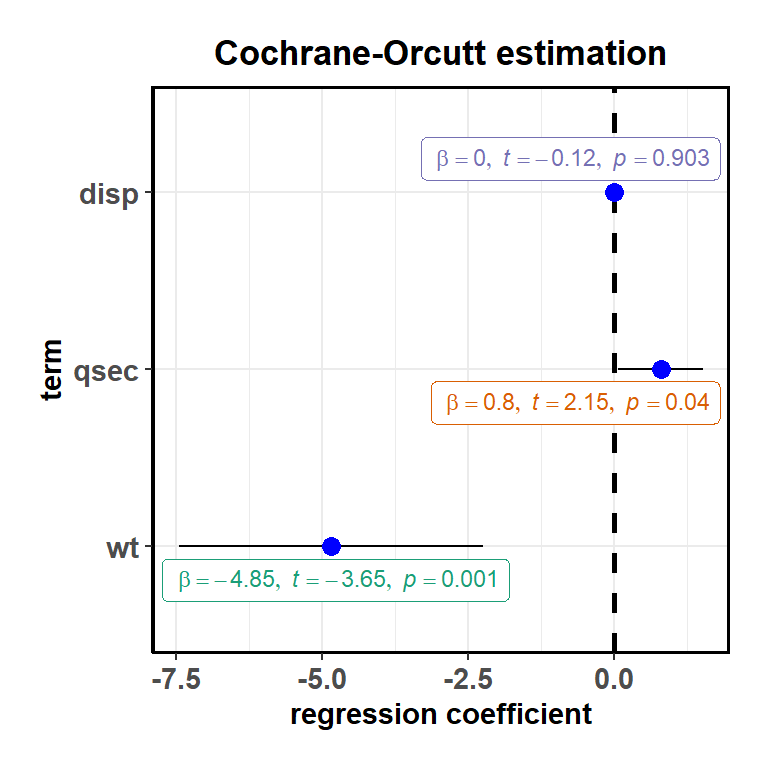
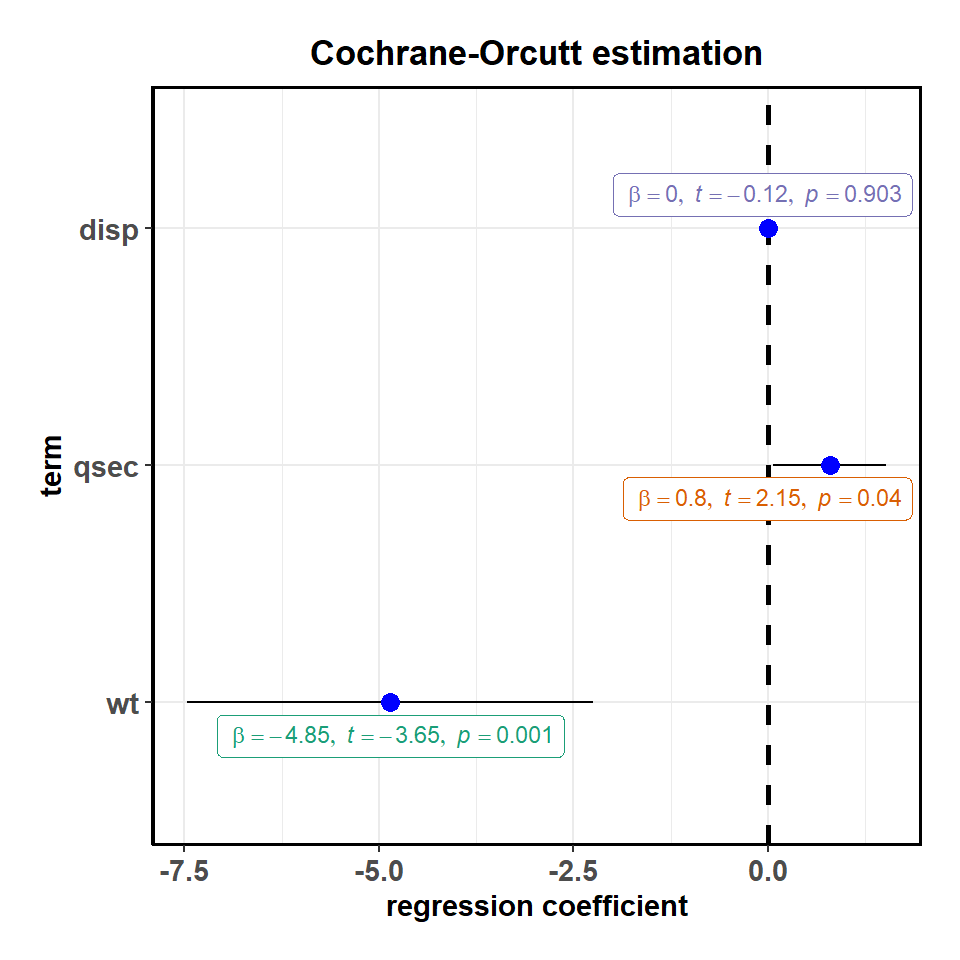
update ggcoefstats vignette

Changed region(s): [[0.0312, 0.0312, 0.9688, 0.9688], [0.7812, 0.625, 0.8125, 0.75], [0.5625, 0.5, 0.5938, 0.5312]]

diff --git a/docs/articles/web_only/ggcoefstats.html b/docs/articles/web_only/ggcoefstats.html
@@ -142,7 +142,7 @@
       <h1>ggcoefstats</h1>
                         <h4 class="author">Indrajeet Patil</h4>
             
-            <h4 class="date">2019-11-30</h4>
+            <h4 class="date">2019-12-03</h4>
       
       <small class="dont-index">Source: <a href="https://github.com/IndrajeetPatil/ggstatsplot/blob/master/vignettes/web_only/ggcoefstats.Rmd"><code>vignettes/web_only/ggcoefstats.Rmd</code></a></small>
       <div class="hidden name"><code>ggcoefstats.Rmd</code></div>
@@ -409,9 +409,7 @@
 <a class="sourceLine" id="cb7-16" title="16">  <span class="dt">title =</span> <span class="st">"robust estimation of linear mixed-effects model"</span>,</a>
 <a class="sourceLine" id="cb7-17" title="17">  <span class="dt">conf.level =</span> <span class="fl">0.90</span></a>
 <a class="sourceLine" id="cb7-18" title="18">)</a>
-<a class="sourceLine" id="cb7-19" title="19"><span class="co">#&gt; Note: No model diagnostics information available, so skipping caption.</span></a>
-<a class="sourceLine" id="cb7-20" title="20"><span class="co">#&gt; Note: No p-values and/or statistic available for the model object;</span></a>
-<a class="sourceLine" id="cb7-21" title="21"><span class="co">#&gt; skipping labels with stats.</span></a></code></pre></div>
+<a class="sourceLine" id="cb7-19" title="19"><span class="co">#&gt; Note: No model diagnostics information available, so skipping caption.</span></a></code></pre></div>
 <p><img src="ggcoefstats_files/figure-html/rlmer-1.png" width="700"></p>
 </div>
 <div id="non-linear-mixed-effects-model-nlmernlmermod" class="section level2">
@@ -2389,30 +2387,21 @@
 <a class="sourceLine" id="cb71-25" title="25">    <span class="dt">formula =</span> networks <span class="op">~</span><span class="st"> </span>edges <span class="op">+</span><span class="st"> </span><span class="kw">istar</span>(<span class="dv">2</span>) <span class="op">+</span><span class="st"> </span><span class="kw">edgecov</span>(covariates),</a>
 <a class="sourceLine" id="cb71-26" title="26">    <span class="dt">parallel =</span> <span class="st">"multicore"</span>,</a>
 <a class="sourceLine" id="cb71-27" title="27">    <span class="dt">ncpus =</span> <span class="dv">4</span>,</a>
-<a class="sourceLine" id="cb71-28" title="28">    <span class="dt">R =</span> <span class="dv">100</span></a>
-<a class="sourceLine" id="cb71-29" title="29">  )</a>
-<a class="sourceLine" id="cb71-30" title="30"><span class="co">#&gt;                  t=1 t=2 t=3 t=4 t=5 t=6 t=7 t=8 t=9 t=10</span></a>
-<a class="sourceLine" id="cb71-31" title="31"><span class="co">#&gt; networks (row)    10  10  10  10  10  10  10  10  10   10</span></a>
-<a class="sourceLine" id="cb71-32" title="32"><span class="co">#&gt; networks (col)    10  10  10  10  10  10  10  10  10   10</span></a>
-<a class="sourceLine" id="cb71-33" title="33"><span class="co">#&gt; covariates (row)  10  10  10  10  10  10  10  10  10   10</span></a>
-<a class="sourceLine" id="cb71-34" title="34"><span class="co">#&gt; covariates (col)  10  10  10  10  10  10  10  10  10   10</span></a>
-<a class="sourceLine" id="cb71-35" title="35"><span class="co">#&gt;                  t=1 t=2 t=3 t=4 t=5 t=6 t=7 t=8 t=9 t=10</span></a>
-<a class="sourceLine" id="cb71-36" title="36"><span class="co">#&gt; networks (row)    10  10  10  10  10  10  10  10  10   10</span></a>
-<a class="sourceLine" id="cb71-37" title="37"><span class="co">#&gt; networks (col)    10  10  10  10  10  10  10  10  10   10</span></a>
-<a class="sourceLine" id="cb71-38" title="38"><span class="co">#&gt; covariates (row)  10  10  10  10  10  10  10  10  10   10</span></a>
-<a class="sourceLine" id="cb71-39" title="39"><span class="co">#&gt; covariates (col)  10  10  10  10  10  10  10  10  10   10</span></a>
-<a class="sourceLine" id="cb71-40" title="40"></a>
-<a class="sourceLine" id="cb71-41" title="41"><span class="co"># plot</span></a>
-<a class="sourceLine" id="cb71-42" title="42">ggstatsplot<span class="op">::</span><span class="kw"><a href="https://indrajeetpatil.github.io/ggstatsplot//reference/ggcoefstats.html">ggcoefstats</a></span>(</a>
-<a class="sourceLine" id="cb71-43" title="43">  <span class="dt">x =</span> fit,</a>
-<a class="sourceLine" id="cb71-44" title="44">  <span class="dt">title =</span> <span class="st">"Terms used in Exponential Family Random Graph Models"</span>,</a>
-<a class="sourceLine" id="cb71-45" title="45">  <span class="dt">subtitle =</span> <span class="st">"by bootstrapped pseudolikelihood or MCMC MLE"</span></a>
-<a class="sourceLine" id="cb71-46" title="46">)</a>
-<a class="sourceLine" id="cb71-47" title="47"><span class="co">#&gt; Note: No model diagnostics information available, so skipping caption.</span></a>
-<a class="sourceLine" id="cb71-48" title="48"><span class="co">#&gt; </span></a>
-<a class="sourceLine" id="cb71-49" title="49"><span class="co">#&gt; Could not extract p-values from model object.</span></a>
-<a class="sourceLine" id="cb71-50" title="50"><span class="co">#&gt; Note: No p-values and/or statistic available for the model object;</span></a>
-<a class="sourceLine" id="cb71-51" title="51"><span class="co">#&gt; skipping labels with stats.</span></a></code></pre></div>
+<a class="sourceLine" id="cb71-28" title="28">    <span class="dt">R =</span> <span class="dv">100</span>,</a>
+<a class="sourceLine" id="cb71-29" title="29">    <span class="dt">verbose =</span> <span class="ot">FALSE</span></a>
+<a class="sourceLine" id="cb71-30" title="30">  )</a>
+<a class="sourceLine" id="cb71-31" title="31"></a>
+<a class="sourceLine" id="cb71-32" title="32"><span class="co"># plot</span></a>
+<a class="sourceLine" id="cb71-33" title="33">ggstatsplot<span class="op">::</span><span class="kw"><a href="https://indrajeetpatil.github.io/ggstatsplot//reference/ggcoefstats.html">ggcoefstats</a></span>(</a>
+<a class="sourceLine" id="cb71-34" title="34">  <span class="dt">x =</span> fit,</a>
+<a class="sourceLine" id="cb71-35" title="35">  <span class="dt">title =</span> <span class="st">"Terms used in Exponential Family Random Graph Models"</span>,</a>
+<a class="sourceLine" id="cb71-36" title="36">  <span class="dt">subtitle =</span> <span class="st">"by bootstrapped pseudolikelihood or MCMC MLE"</span></a>
+<a class="sourceLine" id="cb71-37" title="37">)</a>
+<a class="sourceLine" id="cb71-38" title="38"><span class="co">#&gt; Note: No model diagnostics information available, so skipping caption.</span></a>
+<a class="sourceLine" id="cb71-39" title="39"><span class="co">#&gt; </span></a>
+<a class="sourceLine" id="cb71-40" title="40"><span class="co">#&gt; Could not extract p-values from model object.</span></a>
+<a class="sourceLine" id="cb71-41" title="41"><span class="co">#&gt; Note: No p-values and/or statistic available for the model object;</span></a>
+<a class="sourceLine" id="cb71-42" title="42"><span class="co">#&gt; skipping labels with stats.</span></a></code></pre></div>
 <p><img src="ggcoefstats_files/figure-html/btergm-1.png" width="576"></p>
 </div>
 <div id="generalized-autoregressive-conditional-heteroscedastic-garch" class="section level2">
@@ -2451,7 +2440,7 @@
 <a class="sourceLine" id="cb73-14" title="14"><span class="co">#&gt; Could not extract p-values from model object.</span></a>
 <a class="sourceLine" id="cb73-15" title="15"><span class="co">#&gt; Note: No p-values and/or statistic available for the model object;</span></a>
 <a class="sourceLine" id="cb73-16" title="16"><span class="co">#&gt; skipping labels with stats.</span></a></code></pre></div>
-<p><img src="ggcoefstats_files/figure-html/fitdistr-1.png" width="576"></p>
+<p><img src="ggcoefstats_files/figure-html/fitdistr-1.png" width="384"></p>
 </div>
 <div id="maximum-likelihood-estimation-mle2" class="section level2">
 <h2 class="hasAnchor">
@@ -2499,31 +2488,22 @@
 <a class="sourceLine" id="cb75-12" title="12">oranges_rg1 &lt;-<span class="st"> </span>emmeans<span class="op">::</span><span class="kw"><a href="https://rdrr.io/pkg/emmeans/man/ref_grid.html">ref_grid</a></span>(oranges_lm1)</a>
 <a class="sourceLine" id="cb75-13" title="13">marginal &lt;-<span class="st"> </span>emmeans<span class="op">::</span><span class="kw"><a href="https://rdrr.io/pkg/emmeans/man/emmeans.html">emmeans</a></span>(oranges_rg1, <span class="st">"day"</span>)</a>
 <a class="sourceLine" id="cb75-14" title="14"></a>
-<a class="sourceLine" id="cb75-15" title="15"><span class="co"># looking at the tidy output</span></a>
-<a class="sourceLine" id="cb75-16" title="16">broom<span class="op">::</span><span class="kw"><a href="http://broom.tidyverse.org/reference/reexports.html">tidy</a></span>(marginal)</a>
-<a class="sourceLine" id="cb75-17" title="17"><span class="co">#&gt; # A tibble: 6 x 6</span></a>
-<a class="sourceLine" id="cb75-18" title="18"><span class="co">#&gt;   day   estimate std.error    df conf.low conf.high</span></a>
-<a class="sourceLine" id="cb75-19" title="19"><span class="co">#&gt;   &lt;fct&gt;    &lt;dbl&gt;     &lt;dbl&gt; &lt;dbl&gt;    &lt;dbl&gt;     &lt;dbl&gt;</span></a>
-<a class="sourceLine" id="cb75-20" title="20"><span class="co">#&gt; 1 1         5.56      1.77    23     1.91      9.22</span></a>
-<a class="sourceLine" id="cb75-21" title="21"><span class="co">#&gt; 2 2         6.49      1.73    23     2.92     10.1 </span></a>
-<a class="sourceLine" id="cb75-22" title="22"><span class="co">#&gt; 3 3        13.7       1.75    23    10.0      17.3 </span></a>
-<a class="sourceLine" id="cb75-23" title="23"><span class="co">#&gt; 4 4         8.74      1.73    23     5.16     12.3 </span></a>
-<a class="sourceLine" id="cb75-24" title="24"><span class="co">#&gt; 5 5        15.4       1.79    23    11.7      19.1 </span></a>
-<a class="sourceLine" id="cb75-25" title="25"><span class="co">#&gt; 6 6        11.4       1.77    23     7.74     15.0</span></a>
-<a class="sourceLine" id="cb75-26" title="26"></a>
-<a class="sourceLine" id="cb75-27" title="27"><span class="co"># plotting it using `ggcoefstats`</span></a>
-<a class="sourceLine" id="cb75-28" title="28"><span class="co"># note that since there was column called `term`, the function created one</span></a>
-<a class="sourceLine" id="cb75-29" title="29">ggstatsplot<span class="op">::</span><span class="kw"><a href="https://indrajeetpatil.github.io/ggstatsplot//reference/ggcoefstats.html">ggcoefstats</a></span>(</a>
-<a class="sourceLine" id="cb75-30" title="30">  <span class="dt">x =</span> marginal,</a>
-<a class="sourceLine" id="cb75-31" title="31">  <span class="dt">point.color =</span> <span class="st">"darkgreen"</span>,</a>
-<a class="sourceLine" id="cb75-32" title="32">  <span class="dt">point.shape =</span> <span class="dv">9</span>,</a>
-<a class="sourceLine" id="cb75-33" title="33">  <span class="dt">title =</span> <span class="st">"summary grid from `emmeans` package"</span></a>
-<a class="sourceLine" id="cb75-34" title="34">)</a>
-<a class="sourceLine" id="cb75-35" title="35"><span class="co">#&gt; Note: No model diagnostics information available, so skipping caption.</span></a>
-<a class="sourceLine" id="cb75-36" title="36"><span class="co">#&gt; </span></a>
-<a class="sourceLine" id="cb75-37" title="37"><span class="co">#&gt; Could not extract p-values from model object.</span></a>
-<a class="sourceLine" id="cb75-38" title="38"><span class="co">#&gt; Note: No p-values and/or statistic available for the model object;</span></a>
-<a class="sourceLine" id="cb75-39" title="39"><span class="co">#&gt; skipping labels with stats.</span></a></code></pre></div>
+<a class="sourceLine" id="cb75-15" title="15"><span class="co"># looking at the tidy output (you can do this yourself)</span></a>
+<a class="sourceLine" id="cb75-16" title="16"><span class="co"># broom::tidy(marginal)</span></a>
+<a class="sourceLine" id="cb75-17" title="17"></a>
+<a class="sourceLine" id="cb75-18" title="18"><span class="co"># plotting it using `ggcoefstats`</span></a>
+<a class="sourceLine" id="cb75-19" title="19"><span class="co"># note that since there was column called `term`, the function created one</span></a>
+<a class="sourceLine" id="cb75-20" title="20">ggstatsplot<span class="op">::</span><span class="kw"><a href="https://indrajeetpatil.github.io/ggstatsplot//reference/ggcoefstats.html">ggcoefstats</a></span>(</a>
+<a class="sourceLine" id="cb75-21" title="21">  <span class="dt">x =</span> marginal,</a>
+<a class="sourceLine" id="cb75-22" title="22">  <span class="dt">point.color =</span> <span class="st">"darkgreen"</span>,</a>
+<a class="sourceLine" id="cb75-23" title="23">  <span class="dt">point.shape =</span> <span class="dv">9</span>,</a>
+<a class="sourceLine" id="cb75-24" title="24">  <span class="dt">title =</span> <span class="st">"summary grid from `emmeans` package"</span></a>
+<a class="sourceLine" id="cb75-25" title="25">)</a>
+<a class="sourceLine" id="cb75-26" title="26"><span class="co">#&gt; Note: No model diagnostics information available, so skipping caption.</span></a>
+<a class="sourceLine" id="cb75-27" title="27"><span class="co">#&gt; </span></a>
+<a class="sourceLine" id="cb75-28" title="28"><span class="co">#&gt; Could not extract p-values from model object.</span></a>
+<a class="sourceLine" id="cb75-29" title="29"><span class="co">#&gt; Note: No p-values and/or statistic available for the model object;</span></a>
+<a class="sourceLine" id="cb75-30" title="30"><span class="co">#&gt; skipping labels with stats.</span></a></code></pre></div>
 <p><img src="ggcoefstats_files/figure-html/emmGrid-1.png" width="480"></p>
 </div>
 <div id="cochrane-orcutt-estimation-orcutt" class="section level2">
@@ -2541,7 +2521,7 @@
 <a class="sourceLine" id="cb76-10" title="10">  <span class="dt">title =</span> <span class="st">"Cochrane-Orcutt estimation"</span></a>
 <a class="sourceLine" id="cb76-11" title="11">)</a>
 <a class="sourceLine" id="cb76-12" title="12"><span class="co">#&gt; Note: No model diagnostics information available, so skipping caption.</span></a></code></pre></div>
-<p><img src="ggcoefstats_files/figure-html/orcutt-1.png" width="384"></p>
+<p><img src="ggcoefstats_files/figure-html/orcutt-1.png" width="480"></p>
 </div>
 <div id="confusion-matrix-confusionmatrix" class="section level2">
 <h2 class="hasAnchor">
@@ -2723,9 +2703,9 @@
 <a class="sourceLine" id="cb82-35" title="35"><span class="co">#&gt; Chain 1: Iteration: 1800 / 2000 [ 90%]  (Sampling)</span></a>
 <a class="sourceLine" id="cb82-36" title="36"><span class="co">#&gt; Chain 1: Iteration: 2000 / 2000 [100%]  (Sampling)</span></a>
 <a class="sourceLine" id="cb82-37" title="37"><span class="co">#&gt; Chain 1: </span></a>
-<a class="sourceLine" id="cb82-38" title="38"><span class="co">#&gt; Chain 1:  Elapsed Time: 9.155 seconds (Warm-up)</span></a>
-<a class="sourceLine" id="cb82-39" title="39"><span class="co">#&gt; Chain 1:                4.988 seconds (Sampling)</span></a>
-<a class="sourceLine" id="cb82-40" title="40"><span class="co">#&gt; Chain 1:                14.143 seconds (Total)</span></a>
+<a class="sourceLine" id="cb82-38" title="38"><span class="co">#&gt; Chain 1:  Elapsed Time: 11.335 seconds (Warm-up)</span></a>
+<a class="sourceLine" id="cb82-39" title="39"><span class="co">#&gt; Chain 1:                6.402 seconds (Sampling)</span></a>
+<a class="sourceLine" id="cb82-40" title="40"><span class="co">#&gt; Chain 1:                17.737 seconds (Total)</span></a>
 <a class="sourceLine" id="cb82-41" title="41"><span class="co">#&gt; Chain 1: </span></a>
 <a class="sourceLine" id="cb82-42" title="42"><span class="co">#&gt; </span></a>
 <a class="sourceLine" id="cb82-43" title="43"><span class="co">#&gt; SAMPLING FOR MODEL '7fc0444ee315785f19884bc3c9b2a5ab' NOW (CHAIN 2).</span></a>
@@ -2748,9 +2728,9 @@
 <a class="sourceLine" id="cb82-60" title="60"><span class="co">#&gt; Chain 2: Iteration: 1800 / 2000 [ 90%]  (Sampling)</span></a>
 <a class="sourceLine" id="cb82-61" title="61"><span class="co">#&gt; Chain 2: Iteration: 2000 / 2000 [100%]  (Sampling)</span></a>
 <a class="sourceLine" id="cb82-62" title="62"><span class="co">#&gt; Chain 2: </span></a>
-<a class="sourceLine" id="cb82-63" title="63"><span class="co">#&gt; Chain 2:  Elapsed Time: 19.21 seconds (Warm-up)</span></a>
-<a class="sourceLine" id="cb82-64" title="64"><span class="co">#&gt; Chain 2:                45.991 seconds (Sampling)</span></a>
-<a class="sourceLine" id="cb82-65" title="65"><span class="co">#&gt; Chain 2:                65.201 seconds (Total)</span></a>
+<a class="sourceLine" id="cb82-63" title="63"><span class="co">#&gt; Chain 2:  Elapsed Time: 23.717 seconds (Warm-up)</span></a>
+<a class="sourceLine" id="cb82-64" title="64"><span class="co">#&gt; Chain 2:                56.518 seconds (Sampling)</span></a>
+<a class="sourceLine" id="cb82-65" title="65"><span class="co">#&gt; Chain 2:                80.235 seconds (Total)</span></a>
 <a class="sourceLine" id="cb82-66" title="66"><span class="co">#&gt; Chain 2: </span></a>
 <a class="sourceLine" id="cb82-67" title="67"><span class="co">#&gt; </span></a>
 <a class="sourceLine" id="cb82-68" title="68"><span class="co">#&gt; SAMPLING FOR MODEL '7fc0444ee315785f19884bc3c9b2a5ab' NOW (CHAIN 3).</span></a>
@@ -2773,9 +2753,9 @@
 <a class="sourceLine" id="cb82-85" title="85"><span class="co">#&gt; Chain 3: Iteration: 1800 / 2000 [ 90%]  (Sampling)</span></a>
 <a class="sourceLine" id="cb82-86" title="86"><span class="co">#&gt; Chain 3: Iteration: 2000 / 2000 [100%]  (Sampling)</span></a>
 <a class="sourceLine" id="cb82-87" title="87"><span class="co">#&gt; Chain 3: </span></a>
-<a class="sourceLine" id="cb82-88" title="88"><span class="co">#&gt; Chain 3:  Elapsed Time: 6.996 seconds (Warm-up)</span></a>
-<a class="sourceLine" id="cb82-89" title="89"><span class="co">#&gt; Chain 3:                4.869 seconds (Sampling)</span></a>
-<a class="sourceLine" id="cb82-90" title="90"><span class="co">#&gt; Chain 3:                11.865 seconds (Total)</span></a>
+<a class="sourceLine" id="cb82-88" title="88"><span class="co">#&gt; Chain 3:  Elapsed Time: 7.037 seconds (Warm-up)</span></a>
+<a class="sourceLine" id="cb82-89" title="89"><span class="co">#&gt; Chain 3:                4.515 seconds (Sampling)</span></a>
+<a class="sourceLine" id="cb82-90" title="90"><span class="co">#&gt; Chain 3:                11.552 seconds (Total)</span></a>
 <a class="sourceLine" id="cb82-91" title="91"><span class="co">#&gt; Chain 3: </span></a>
 <a class="sourceLine" id="cb82-92" title="92"><span class="co">#&gt; </span></a>
 <a class="sourceLine" id="cb82-93" title="93"><span class="co">#&gt; SAMPLING FOR MODEL '7fc0444ee315785f19884bc3c9b2a5ab' NOW (CHAIN 4).</span></a>
@@ -2798,9 +2778,9 @@
 <a class="sourceLine" id="cb82-110" title="110"><span class="co">#&gt; Chain 4: Iteration: 1800 / 2000 [ 90%]  (Sampling)</span></a>
 <a class="sourceLine" id="cb82-111" title="111"><span class="co">#&gt; Chain 4: Iteration: 2000 / 2000 [100%]  (Sampling)</span></a>
 <a class="sourceLine" id="cb82-112" title="112"><span class="co">#&gt; Chain 4: </span></a>
-<a class="sourceLine" id="cb82-113" title="113"><span class="co">#&gt; Chain 4:  Elapsed Time: 7.188 seconds (Warm-up)</span></a>
-<a class="sourceLine" id="cb82-114" title="114"><span class="co">#&gt; Chain 4:                6.535 seconds (Sampling)</span></a>
-<a class="sourceLine" id="cb82-115" title="115"><span class="co">#&gt; Chain 4:                13.723 seconds (Total)</span></a>
+<a class="sourceLine" id="cb82-113" title="113"><span class="co">#&gt; Chain 4:  Elapsed Time: 5.974 seconds (Warm-up)</span></a>
+<a class="sourceLine" id="cb82-114" title="114"><span class="co">#&gt; Chain 4:                5.163 seconds (Sampling)</span></a>
+<a class="sourceLine" id="cb82-115" title="115"><span class="co">#&gt; Chain 4:                11.137 seconds (Total)</span></a>
 <a class="sourceLine" id="cb82-116" title="116"><span class="co">#&gt; Chain 4:</span></a>
 <a class="sourceLine" id="cb82-117" title="117"></a>
 <a class="sourceLine" id="cb82-118" title="118"><span class="co"># plot</span></a>
@@ -2834,8 +2814,8 @@
 <a class="sourceLine" id="cb83-16" title="16"><span class="co">#&gt; </span></a>
 <a class="sourceLine" id="cb83-17" title="17"><span class="co">#&gt; SAMPLING FOR MODEL 'd4eb97f08850361da56832c67c1bb81f' NOW (CHAIN 1).</span></a>
 <a class="sourceLine" id="cb83-18" title="18"><span class="co">#&gt; Chain 1: </span></a>
-<a class="sourceLine" id="cb83-19" title="19"><span class="co">#&gt; Chain 1: Gradient evaluation took 0.001 seconds</span></a>
-<a class="sourceLine" id="cb83-20" title="20"><span class="co">#&gt; Chain 1: 1000 transitions using 10 leapfrog steps per transition would take 10 seconds.</span></a>
+<a class="sourceLine" id="cb83-19" title="19"><span class="co">#&gt; Chain 1: Gradient evaluation took 0 seconds</span></a>
+<a class="sourceLine" id="cb83-20" title="20"><span class="co">#&gt; Chain 1: 1000 transitions using 10 leapfrog steps per transition would take 0 seconds.</span></a>
 <a class="sourceLine" id="cb83-21" title="21"><span class="co">#&gt; Chain 1: Adjust your expectations accordingly!</span></a>
 <a class="sourceLine" id="cb83-22" title="22"><span class="co">#&gt; Chain 1: </span></a>
 <a class="sourceLine" id="cb83-23" title="23"><span class="co">#&gt; Chain 1: </span></a>
@@ -2852,9 +2832,9 @@
 <a class="sourceLine" id="cb83-34" title="34"><span class="co">#&gt; Chain 1: Iteration: 1800 / 2000 [ 90%]  (Sampling)</span></a>
 <a class="sourceLine" id="cb83-35" title="35"><span class="co">#&gt; Chain 1: Iteration: 2000 / 2000 [100%]  (Sampling)</span></a>
 <a class="sourceLine" id="cb83-36" title="36"><span class="co">#&gt; Chain 1: </span></a>
-<a class="sourceLine" id="cb83-37" title="37"><span class="co">#&gt; Chain 1:  Elapsed Time: 0.236 seconds (Warm-up)</span></a>
-<a class="sourceLine" id="cb83-38" title="38"><span class="co">#&gt; Chain 1:                0.052 seconds (Sampling)</span></a>
-<a class="sourceLine" id="cb83-39" title="39"><span class="co">#&gt; Chain 1:                0.288 seconds (Total)</span></a>
+<a class="sourceLine" id="cb83-37" title="37"><span class="co">#&gt; Chain 1:  Elapsed Time: 0.148 seconds (Warm-up)</span></a>
+<a class="sourceLine" id="cb83-38" title="38"><span class="co">#&gt; Chain 1:                0.037 seconds (Sampling)</span></a>
+<a class="sourceLine" id="cb83-39" title="39"><span class="co">#&gt; Chain 1:                0.185 seconds (Total)</span></a>
 <a class="sourceLine" id="cb83-40" title="40"><span class="co">#&gt; Chain 1: </span></a>
 <a class="sourceLine" id="cb83-41" title="41"><span class="co">#&gt; </span></a>
 <a class="sourceLine" id="cb83-42" title="42"><span class="co">#&gt; SAMPLING FOR MODEL 'd4eb97f08850361da56832c67c1bb81f' NOW (CHAIN 1).</span></a>
@@ -2877,9 +2857,9 @@
 <a class="sourceLine" id="cb83-59" title="59"><span class="co">#&gt; Chain 1: Iteration: 1800 / 2000 [ 90%]  (Sampling)</span></a>
 <a class="sourceLine" id="cb83-60" title="60"><span class="co">#&gt; Chain 1: Iteration: 2000 / 2000 [100%]  (Sampling)</span></a>
 <a class="sourceLine" id="cb83-61" title="61"><span class="co">#&gt; Chain 1: </span></a>
-<a class="sourceLine" id="cb83-62" title="62"><span class="co">#&gt; Chain 1:  Elapsed Time: 0.215 seconds (Warm-up)</span></a>
-<a class="sourceLine" id="cb83-63" title="63"><span class="co">#&gt; Chain 1:                0.05 seconds (Sampling)</span></a>
-<a class="sourceLine" id="cb83-64" title="64"><span class="co">#&gt; Chain 1:                0.265 seconds (Total)</span></a>
+<a class="sourceLine" id="cb83-62" title="62"><span class="co">#&gt; Chain 1:  Elapsed Time: 0.164 seconds (Warm-up)</span></a>
+<a class="sourceLine" id="cb83-63" title="63"><span class="co">#&gt; Chain 1:                0.043 seconds (Sampling)</span></a>
+<a class="sourceLine" id="cb83-64" title="64"><span class="co">#&gt; Chain 1:                0.207 seconds (Total)</span></a>
 <a class="sourceLine" id="cb83-65" title="65"><span class="co">#&gt; Chain 1: </span></a>
 <a class="sourceLine" id="cb83-66" title="66"><span class="co">#&gt; </span></a>
 <a class="sourceLine" id="cb83-67" title="67"><span class="co">#&gt; SAMPLING FOR MODEL 'd4eb97f08850361da56832c67c1bb81f' NOW (CHAIN 1).</span></a>
@@ -2902,9 +2882,9 @@
 <a class="sourceLine" id="cb83-84" title="84"><span class="co">#&gt; Chain 1: Iteration: 1800 / 2000 [ 90%]  (Sampling)</span></a>
 <a class="sourceLine" id="cb83-85" title="85"><span class="co">#&gt; Chain 1: Iteration: 2000 / 2000 [100%]  (Sampling)</span></a>
 <a class="sourceLine" id="cb83-86" title="86"><span class="co">#&gt; Chain 1: </span></a>
-<a class="sourceLine" id="cb83-87" title="87"><span class="co">#&gt; Chain 1:  Elapsed Time: 0.204 seconds (Warm-up)</span></a>
-<a class="sourceLine" id="cb83-88" title="88"><span class="co">#&gt; Chain 1:                0.059 seconds (Sampling)</span></a>
-<a class="sourceLine" id="cb83-89" title="89"><span class="co">#&gt; Chain 1:                0.263 seconds (Total)</span></a>
+<a class="sourceLine" id="cb83-87" title="87"><span class="co">#&gt; Chain 1:  Elapsed Time: 0.136 seconds (Warm-up)</span></a>
+<a class="sourceLine" id="cb83-88" title="88"><span class="co">#&gt; Chain 1:                0.034 seconds (Sampling)</span></a>
+<a class="sourceLine" id="cb83-89" title="89"><span class="co">#&gt; Chain 1:                0.17 seconds (Total)</span></a>
 <a class="sourceLine" id="cb83-90" title="90"><span class="co">#&gt; Chain 1: </span></a>
 <a class="sourceLine" id="cb83-91" title="91"><span class="co">#&gt; </span></a>
 <a class="sourceLine" id="cb83-92" title="92"><span class="co">#&gt; SAMPLING FOR MODEL 'd4eb97f08850361da56832c67c1bb81f' NOW (CHAIN 1).</span></a>
@@ -2927,9 +2907,9 @@
 <a class="sourceLine" id="cb83-109" title="109"><span class="co">#&gt; Chain 1: Iteration: 1800 / 2000 [ 90%]  (Sampling)</span></a>
 <a class="sourceLine" id="cb83-110" title="110"><span class="co">#&gt; Chain 1: Iteration: 2000 / 2000 [100%]  (Sampling)</span></a>
 <a class="sourceLine" id="cb83-111" title="111"><span class="co">#&gt; Chain 1: </span></a>
-<a class="sourceLine" id="cb83-112" title="112"><span class="co">#&gt; Chain 1:  Elapsed Time: 0.213 seconds (Warm-up)</span></a>
-<a class="sourceLine" id="cb83-113" title="113"><span class="co">#&gt; Chain 1:                0.047 seconds (Sampling)</span></a>
-<a class="sourceLine" id="cb83-114" title="114"><span class="co">#&gt; Chain 1:                0.26 seconds (Total)</span></a>
+<a class="sourceLine" id="cb83-112" title="112"><span class="co">#&gt; Chain 1:  Elapsed Time: 0.162 seconds (Warm-up)</span></a>
+<a class="sourceLine" id="cb83-113" title="113"><span class="co">#&gt; Chain 1:                0.038 seconds (Sampling)</span></a>
+<a class="sourceLine" id="cb83-114" title="114"><span class="co">#&gt; Chain 1:                0.2 seconds (Total)</span></a>
 <a class="sourceLine" id="cb83-115" title="115"><span class="co">#&gt; Chain 1: </span></a>
 <a class="sourceLine" id="cb83-116" title="116"><span class="co">#&gt; </span></a>
 <a class="sourceLine" id="cb83-117" title="117"><span class="co">#&gt; SAMPLING FOR MODEL 'd4eb97f08850361da56832c67c1bb81f' NOW (CHAIN 1).</span></a>
@@ -2952,9 +2932,9 @@
 <a class="sourceLine" id="cb83-134" title="134"><span class="co">#&gt; Chain 1: Iteration: 1800 / 2000 [ 90%]  (Sampling)</span></a>
 <a class="sourceLine" id="cb83-135" title="135"><span class="co">#&gt; Chain 1: Iteration: 2000 / 2000 [100%]  (Sampling)</span></a>
 <a class="sourceLine" id="cb83-136" title="136"><span class="co">#&gt; Chain 1: </span></a>
-<a class="sourceLine" id="cb83-137" title="137"><span class="co">#&gt; Chain 1:  Elapsed Time: 0.256 seconds (Warm-up)</span></a>
-<a class="sourceLine" id="cb83-138" title="138"><span class="co">#&gt; Chain 1:                0.055 seconds (Sampling)</span></a>
-<a class="sourceLine" id="cb83-139" title="139"><span class="co">#&gt; Chain 1:                0.311 seconds (Total)</span></a>
+<a class="sourceLine" id="cb83-137" title="137"><span class="co">#&gt; Chain 1:  Elapsed Time: 0.155 seconds (Warm-up)</span></a>
+<a class="sourceLine" id="cb83-138" title="138"><span class="co">#&gt; Chain 1:                0.033 seconds (Sampling)</span></a>
+<a class="sourceLine" id="cb83-139" title="139"><span class="co">#&gt; Chain 1:                0.188 seconds (Total)</span></a>
 <a class="sourceLine" id="cb83-140" title="140"><span class="co">#&gt; Chain 1:</span></a>
 <a class="sourceLine" id="cb83-141" title="141"></a>
 <a class="sourceLine" id="cb83-142" title="142"><span class="co"># plot</span></a>
@@ -2985,8 +2965,8 @@
 <a class="sourceLine" id="cb84-12" title="12"><span class="co">#&gt; </span></a>
 <a class="sourceLine" id="cb84-13" title="13"><span class="co">#&gt; SAMPLING FOR MODEL 'continuous' NOW (CHAIN 1).</span></a>
 <a class="sourceLine" id="cb84-14" title="14"><span class="co">#&gt; Chain 1: </span></a>
-<a class="sourceLine" id="cb84-15" title="15"><span class="co">#&gt; Chain 1: Gradient evaluation took 0 seconds</span></a>
-<a class="sourceLine" id="cb84-16" title="16"><span class="co">#&gt; Chain 1: 1000 transitions using 10 leapfrog steps per transition would take 0 seconds.</span></a>
+<a class="sourceLine" id="cb84-15" title="15"><span class="co">#&gt; Chain 1: Gradient evaluation took 0.003 seconds</span></a>
+<a class="sourceLine" id="cb84-16" title="16"><span class="co">#&gt; Chain 1: 1000 transitions using 10 leapfrog steps per transition would take 30 seconds.</span></a>
 <a class="sourceLine" id="cb84-17" title="17"><span class="co">#&gt; Chain 1: Adjust your expectations accordingly!</span></a>
 <a class="sourceLine" id="cb84-18" title="18"><span class="co">#&gt; Chain 1: </span></a>
 <a class="sourceLine" id="cb84-19" title="19"><span class="co">#&gt; Chain 1: </span></a>
@@ -3003,9 +2983,9 @@
 <a class="sourceLine" id="cb84-30" title="30"><span class="co">#&gt; Chain 1: Iteration: 1800 / 2000 [ 90%]  (Sampling)</span></a>
 <a class="sourceLine" id="cb84-31" title="31"><span class="co">#&gt; Chain 1: Iteration: 2000 / 2000 [100%]  (Sampling)</span></a>
 <a class="sourceLine" id="cb84-32" title="32"><span class="co">#&gt; Chain 1: </span></a>
-<a class="sourceLine" id="cb84-33" title="33"><span class="co">#&gt; Chain 1:  Elapsed Time: 0.088 seconds (Warm-up)</span></a>
-<a class="sourceLine" id="cb84-34" title="34"><span class="co">#&gt; Chain 1:                0.107 seconds (Sampling)</span></a>
-<a class="sourceLine" id="cb84-35" title="35"><span class="co">#&gt; Chain 1:                0.195 seconds (Total)</span></a>
+<a class="sourceLine" id="cb84-33" title="33"><span class="co">#&gt; Chain 1:  Elapsed Time: 0.063 seconds (Warm-up)</span></a>
+<a class="sourceLine" id="cb84-34" title="34"><span class="co">#&gt; Chain 1:                0.074 seconds (Sampling)</span></a>
+<a class="sourceLine" id="cb84-35" title="35"><span class="co">#&gt; Chain 1:                0.137 seconds (Total)</span></a>
 <a class="sourceLine" id="cb84-36" title="36"><span class="co">#&gt; Chain 1:</span></a>
 <a class="sourceLine" id="cb84-37" title="37"></a>
 <a class="sourceLine" id="cb84-38" title="38"><span class="co"># plot</span></a>
@@ -3066,8 +3046,8 @@
 <a class="sourceLine" id="cb86-17" title="17"><span class="co">#&gt; </span></a>
 <a class="sourceLine" id="cb86-18" title="18"><span class="co">#&gt; SAMPLING FOR MODEL 'continuous' NOW (CHAIN 1).</span></a>
 <a class="sourceLine" id="cb86-19" title="19"><span class="co">#&gt; Chain 1: </span></a>
-<a class="sourceLine" id="cb86-20" title="20"><span class="co">#&gt; Chain 1: Gradient evaluation took 0 seconds</span></a>
-<a class="sourceLine" id="cb86-21" title="21"><span class="co">#&gt; Chain 1: 1000 transitions using 10 leapfrog steps per transition would take 0 seconds.</span></a>
+<a class="sourceLine" id="cb86-20" title="20"><span class="co">#&gt; Chain 1: Gradient evaluation took 0.002 seconds</span></a>
+<a class="sourceLine" id="cb86-21" title="21"><span class="co">#&gt; Chain 1: 1000 transitions using 10 leapfrog steps per transition would take 20 seconds.</span></a>
 <a class="sourceLine" id="cb86-22" title="22"><span class="co">#&gt; Chain 1: Adjust your expectations accordingly!</span></a>
 <a class="sourceLine" id="cb86-23" title="23"><span class="co">#&gt; Chain 1: </span></a>
 <a class="sourceLine" id="cb86-24" title="24"><span class="co">#&gt; Chain 1: </span></a>
@@ -3084,9 +3064,9 @@
 <a class="sourceLine" id="cb86-35" title="35"><span class="co">#&gt; Chain 1: Iteration: 900 / 1000 [ 90%]  (Sampling)</span></a>
 <a class="sourceLine" id="cb86-36" title="36"><span class="co">#&gt; Chain 1: Iteration: 1000 / 1000 [100%]  (Sampling)</span></a>
 <a class="sourceLine" id="cb86-37" title="37"><span class="co">#&gt; Chain 1: </span></a>
-<a class="sourceLine" id="cb86-38" title="38"><span class="co">#&gt; Chain 1:  Elapsed Time: 1.442 seconds (Warm-up)</span></a>
-<a class="sourceLine" id="cb86-39" title="39"><span class="co">#&gt; Chain 1:                0.744 seconds (Sampling)</span></a>
-<a class="sourceLine" id="cb86-40" title="40"><span class="co">#&gt; Chain 1:                2.186 seconds (Total)</span></a>
+<a class="sourceLine" id="cb86-38" title="38"><span class="co">#&gt; Chain 1:  Elapsed Time: 0.973 seconds (Warm-up)</span></a>
+<a class="sourceLine" id="cb86-39" title="39"><span class="co">#&gt; Chain 1:                0.626 seconds (Sampling)</span></a>
+<a class="sourceLine" id="cb86-40" title="40"><span class="co">#&gt; Chain 1:                1.599 seconds (Total)</span></a>
 <a class="sourceLine" id="cb86-41" title="41"><span class="co">#&gt; Chain 1:</span></a>
 <a class="sourceLine" id="cb86-42" title="42"></a>
 <a class="sourceLine" id="cb86-43" title="43"><span class="co"># plot</span></a>
@@ -3285,9 +3265,9 @@
 <a class="sourceLine" id="cb91-38" title="38"><span class="co">#&gt; Chain 1: Iteration: 1400 / 1500 [ 93%]  (Sampling)</span></a>
 <a class="sourceLine" id="cb91-39" title="39"><span class="co">#&gt; Chain 1: Iteration: 1500 / 1500 [100%]  (Sampling)</span></a>
 <a class="sourceLine" id="cb91-40" title="40"><span class="co">#&gt; Chain 1: </span></a>
-<a class="sourceLine" id="cb91-41" title="41"><span class="co">#&gt; Chain 1:  Elapsed Time: 20.998 seconds (Warm-up)</span></a>
-<a class="sourceLine" id="cb91-42" title="42"><span class="co">#&gt; Chain 1:                33.895 seconds (Sampling)</span></a>
-<a class="sourceLine" id="cb91-43" title="43"><span class="co">#&gt; Chain 1:                54.893 seconds (Total)</span></a>
+<a class="sourceLine" id="cb91-41" title="41"><span class="co">#&gt; Chain 1:  Elapsed Time: 14.924 seconds (Warm-up)</span></a>
+<a class="sourceLine" id="cb91-42" title="42"><span class="co">#&gt; Chain 1:                24.151 seconds (Sampling)</span></a>
+<a class="sourceLine" id="cb91-43" title="43"><span class="co">#&gt; Chain 1:                39.075 seconds (Total)</span></a>
 <a class="sourceLine" id="cb91-44" title="44"><span class="co">#&gt; Chain 1: </span></a>
 <a class="sourceLine" id="cb91-45" title="45"><span class="co">#&gt; </span></a>
 <a class="sourceLine" id="cb91-46" title="46"><span class="co">#&gt; SAMPLING FOR MODEL 'stanmarg' NOW (CHAIN 2).</span></a>
@@ -3310,9 +3290,9 @@
 <a class="sourceLine" id="cb91-63" title="63"><span class="co">#&gt; Chain 2: Iteration: 1400 / 1500 [ 93%]  (Sampling)</span></a>
 <a class="sourceLine" id="cb91-64" title="64"><span class="co">#&gt; Chain 2: Iteration: 1500 / 1500 [100%]  (Sampling)</span></a>
 <a class="sourceLine" id="cb91-65" title="65"><span class="co">#&gt; Chain 2: </span></a>
-<a class="sourceLine" id="cb91-66" title="66"><span class="co">#&gt; Chain 2:  Elapsed Time: 20.961 seconds (Warm-up)</span></a>
-<a class="sourceLine" id="cb91-67" title="67"><span class="co">#&gt; Chain 2:                37.819 seconds (Sampling)</span></a>
-<a class="sourceLine" id="cb91-68" title="68"><span class="co">#&gt; Chain 2:                58.78 seconds (Total)</span></a>
+<a class="sourceLine" id="cb91-66" title="66"><span class="co">#&gt; Chain 2:  Elapsed Time: 14.861 seconds (Warm-up)</span></a>
+<a class="sourceLine" id="cb91-67" title="67"><span class="co">#&gt; Chain 2:                25.891 seconds (Sampling)</span></a>
+<a class="sourceLine" id="cb91-68" title="68"><span class="co">#&gt; Chain 2:                40.752 seconds (Total)</span></a>
 <a class="sourceLine" id="cb91-69" title="69"><span class="co">#&gt; Chain 2: </span></a>
 <a class="sourceLine" id="cb91-70" title="70"><span class="co">#&gt; </span></a>
 <a class="sourceLine" id="cb91-71" title="71"><span class="co">#&gt; SAMPLING FOR MODEL 'stanmarg' NOW (CHAIN 3).</span></a>
@@ -3335,9 +3315,9 @@
 <a class="sourceLine" id="cb91-88" title="88"><span class="co">#&gt; Chain 3: Iteration: 1400 / 1500 [ 93%]  (Sampling)</span></a>
 <a class="sourceLine" id="cb91-89" title="89"><span class="co">#&gt; Chain 3: Iteration: 1500 / 1500 [100%]  (Sampling)</span></a>
 <a class="sourceLine" id="cb91-90" title="90"><span class="co">#&gt; Chain 3: </span></a>
-<a class="sourceLine" id="cb91-91" title="91"><span class="co">#&gt; Chain 3:  Elapsed Time: 22.861 seconds (Warm-up)</span></a>
-<a class="sourceLine" id="cb91-92" title="92"><span class="co">#&gt; Chain 3:                35.248 seconds (Sampling)</span></a>
-<a class="sourceLine" id="cb91-93" title="93"><span class="co">#&gt; Chain 3:                58.109 seconds (Total)</span></a>
+<a class="sourceLine" id="cb91-91" title="91"><span class="co">#&gt; Chain 3:  Elapsed Time: 16.323 seconds (Warm-up)</span></a>
+<a class="sourceLine" id="cb91-92" title="92"><span class="co">#&gt; Chain 3:                23.604 seconds (Sampling)</span></a>
+<a class="sourceLine" id="cb91-93" title="93"><span class="co">#&gt; Chain 3:                39.927 seconds (Total)</span></a>
 <a class="sourceLine" id="cb91-94" title="94"><span class="co">#&gt; Chain 3: </span></a>
 <a class="sourceLine" id="cb91-95" title="95"><span class="co">#&gt; Computing posterior predictives...</span></a>
 <a class="sourceLine" id="cb91-96" title="96"></a>
@@ -3528,7 +3508,7 @@
 </div>
   </div>
 
-  <div class="col-md-3 hidden-xs hidden-sm" id="sidebar">
+  <div class="col-md-3 hidden-xs hidden-sm" id="pkgdown-sidebar">
 
         <div id="tocnav">
       <h2 class="hasAnchor">
